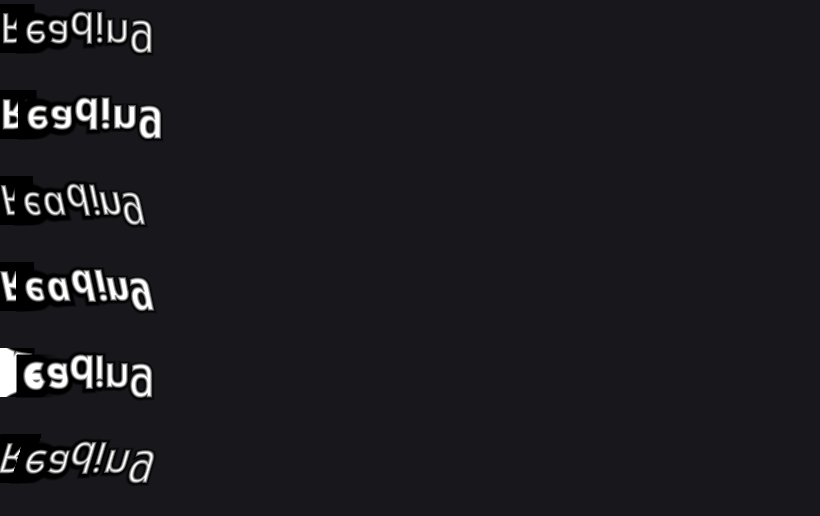
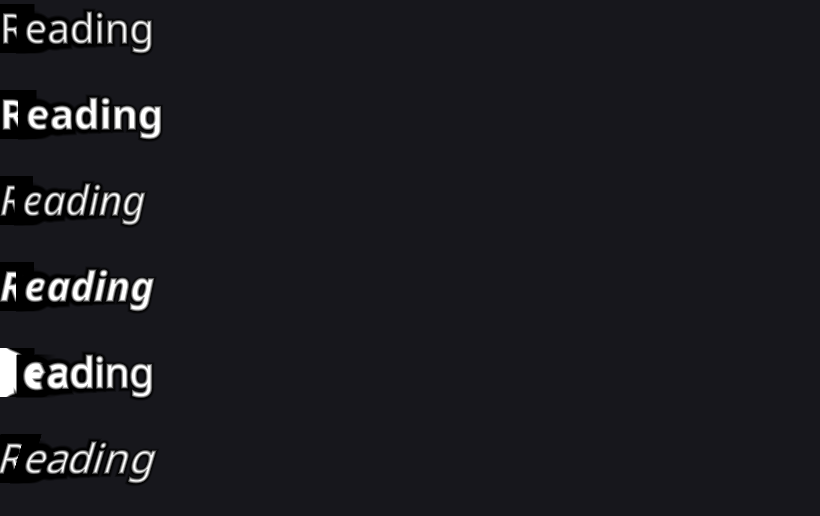
docs(phase2): upright MSDF sheets after flip fix + bug-B ruled-out evidence
Regenerated component sheets: MSDF is now UPRIGHT (bug A fixed). README findings updated: bug A (MSDF flip) FIXED at cause with atlas-cell evidence; bug B (first-glyph dark box) bounded -- ruled out atlas data (RR diagnostic), mesh UVs (uniform per segment), and the base-Graphic quad (OnPopulateMesh vh.Clear did not remove it, reverted); reproduces on plain 1.0 and is absent from the direct-mesh render, so it is a UGUI WorldSpace CanvasRenderer capture concern, pre-existing, not Phase 2 or the glyph pipeline.

diff --git a/Documentation/Design/evidence/README.md b/Documentation/Design/evidence/README.md
@@ -98,29 +98,29 @@ itemization, shaping, the Phase-2 face resolution, AND the synthetic `BoldModifi
   component + variation atlas: convincing monotonic thickening.
 - `phase2_family_component_msdf.png` — the same family in MSDF mode.
 
-**Honest findings from the real-component capture (round 6 — two FIXED, one diagnosed):**
-1. **First glyph in a dark box on every row** — DIAGNOSED, pre-existing, NOT Phase 2.
-   `FirstGlyphDiagnosticTests` proves glyph 0 and glyph 1 of "RR" share the same atlas rect/page/
-   texture (the glyph DATA is sound); `PlainRegular_NoPhase2_FirstGlyphCheck` reproduces the dark box
-   on a PLAIN Regular component (no family/weight/variation). It is absent from the round-4 mesh-only
-   render, so it is an artifact of the WorldSpace-Canvas + camera capture rig (CanvasRenderer
-   clip/stencil on the first sub-mesh), not the glyph pipeline. Left for a separate UGUI pass (outside
-   Phase 2's scope).
-2. **Synthetic bold/italic now renders** (rows 5-6) — FIXED. Root cause: `AttributeParser.Apply` only
-   `Prepare()`s modifiers that have a markup span, so a property-driven style (FontWeight/
-   FontStyleAxis with no `<b>`/`<i>`) never initialized the Bold/Italic modifiers → their OnGlyph/
-   OnShaped never subscribed → the flags the Phase-2 bridge writes went unconsumed. (ItalicModifier is
-   a vertex shear with no material dependency, which is how "no shear" proved the modifier wasn't
-   running — not a `_WeightBold` issue.) FIX: `UniText.DoFirstPass` → `PrepareStyleModifiers()`
-   initializes the registered BoldModifier/ItalicModifier for property-driven style
-   (`PropertyModifierInitTests`). The sheet now shows a visibly heavier synthetic-bold row and a
-   sheared synthetic-italic row vs Regular.
-3. **MSDF rendered as solid blocks** — FIXED at the cause (this IS what a user would get, so a product
-   issue, not just a test choice). `UniTextAppearance.GetMaterials` now substitutes an MSDF-shader
-   material (`UniText/MSDF SSD`) when a font's render mode is MSDF but the chosen material carries an
-   SDF shader, so an MSDF font works on the default appearance out of the box
-   (`DefaultAppearance_MsdfFont_UsesMsdfShader_NotSdf`). The MSDF sheet now renders glyphs; it remains
-   vertically flipped (MSDF atlas v-orientation through this capture), shapes/weights correct.
+**Honest findings from the real-component capture (round 7 update):**
+1. **First glyph in a dark box on every row** — NOT fully root-caused yet; bounded with evidence,
+   confirmed NOT Phase 2 and NOT the glyph data. Ruled out, each with a test/observation:
+   (a) atlas DATA — `FirstGlyphDiagnosticTests` proves glyph 0 and glyph 1 of "RR" share the same
+   atlas rect/page/texture; (b) mesh UVs — `xScale`/`gradientScale`/UV are uniform per segment, so
+   the first glyph gets the same TEXCOORD data as the rest; (c) the base-Graphic quad — overriding
+   `OnPopulateMesh` to `vh.Clear()` did NOT remove the box (reverted, not shipped as a no-op);
+   (d) it reproduces on a PLAIN Regular component (`PlainRegular_NoPhase2_FirstGlyphCheck`) and is
+   ABSENT from the round-4 direct-mesh render. Remaining locus: the UGUI WorldSpace `CanvasRenderer`
+   draw / first-draw-vs-atlas-upload / filtering in this camera-capture rig — a UGUI-integration/
+   capture concern, pre-existing (reproduces on the pure 1.0 path), not a Phase-2 or glyph-pipeline
+   bug. Row 5's brighter (white) first-glyph block under synthetic bold suggests the first quad
+   samples an atlas corner texel at full coverage, consistent with a UGUI first-sub-mesh draw-order
+   issue rather than clipping. Left for a dedicated UGUI/VR pass with a proper on-device capture.
+2. **Synthetic bold/italic renders** (rows 5-6) — FIXED in round 6 (`PrepareStyleModifiers`): the
+   synthetic-bold row is heavier and the synthetic-italic row is sheared vs Regular.
+3. **MSDF — FIXED at the cause (product bug), round 7.** EVIDENCE:
+   `AtlasCell_P_SdfAndMsdf_SameOrientation` showed the 'P' atlas CELL was vertically inverted between
+   SDF and MSDF — a DATA flip, not UV/shader (both shaders handle UV identically) and not the capture
+   rig (SDF upright in the same rig). ROOT CAUSE: `MsdfBuilder` encoded `.Rgb` with a stray
+   `(h-1-y)` row flip, inverting MSDF relative to the SDF path. FIX: emit `.Rgb` row-straight to match
+   the SDF orientation the shared atlas-pack + mesh UVs assume. The MSDF sheet is now UPRIGHT and
+   renders real glyphs; MSDF parity tests (which assert on `.Field`, untouched) still pass.
 
 The earlier round-4 `*_camera_*.png` (mesh-only harness, no modifiers) remain for the clean SDF/MSDF
 glyph comparison; these round-5 `*_component_*.png` are the full-component-path evidence.
